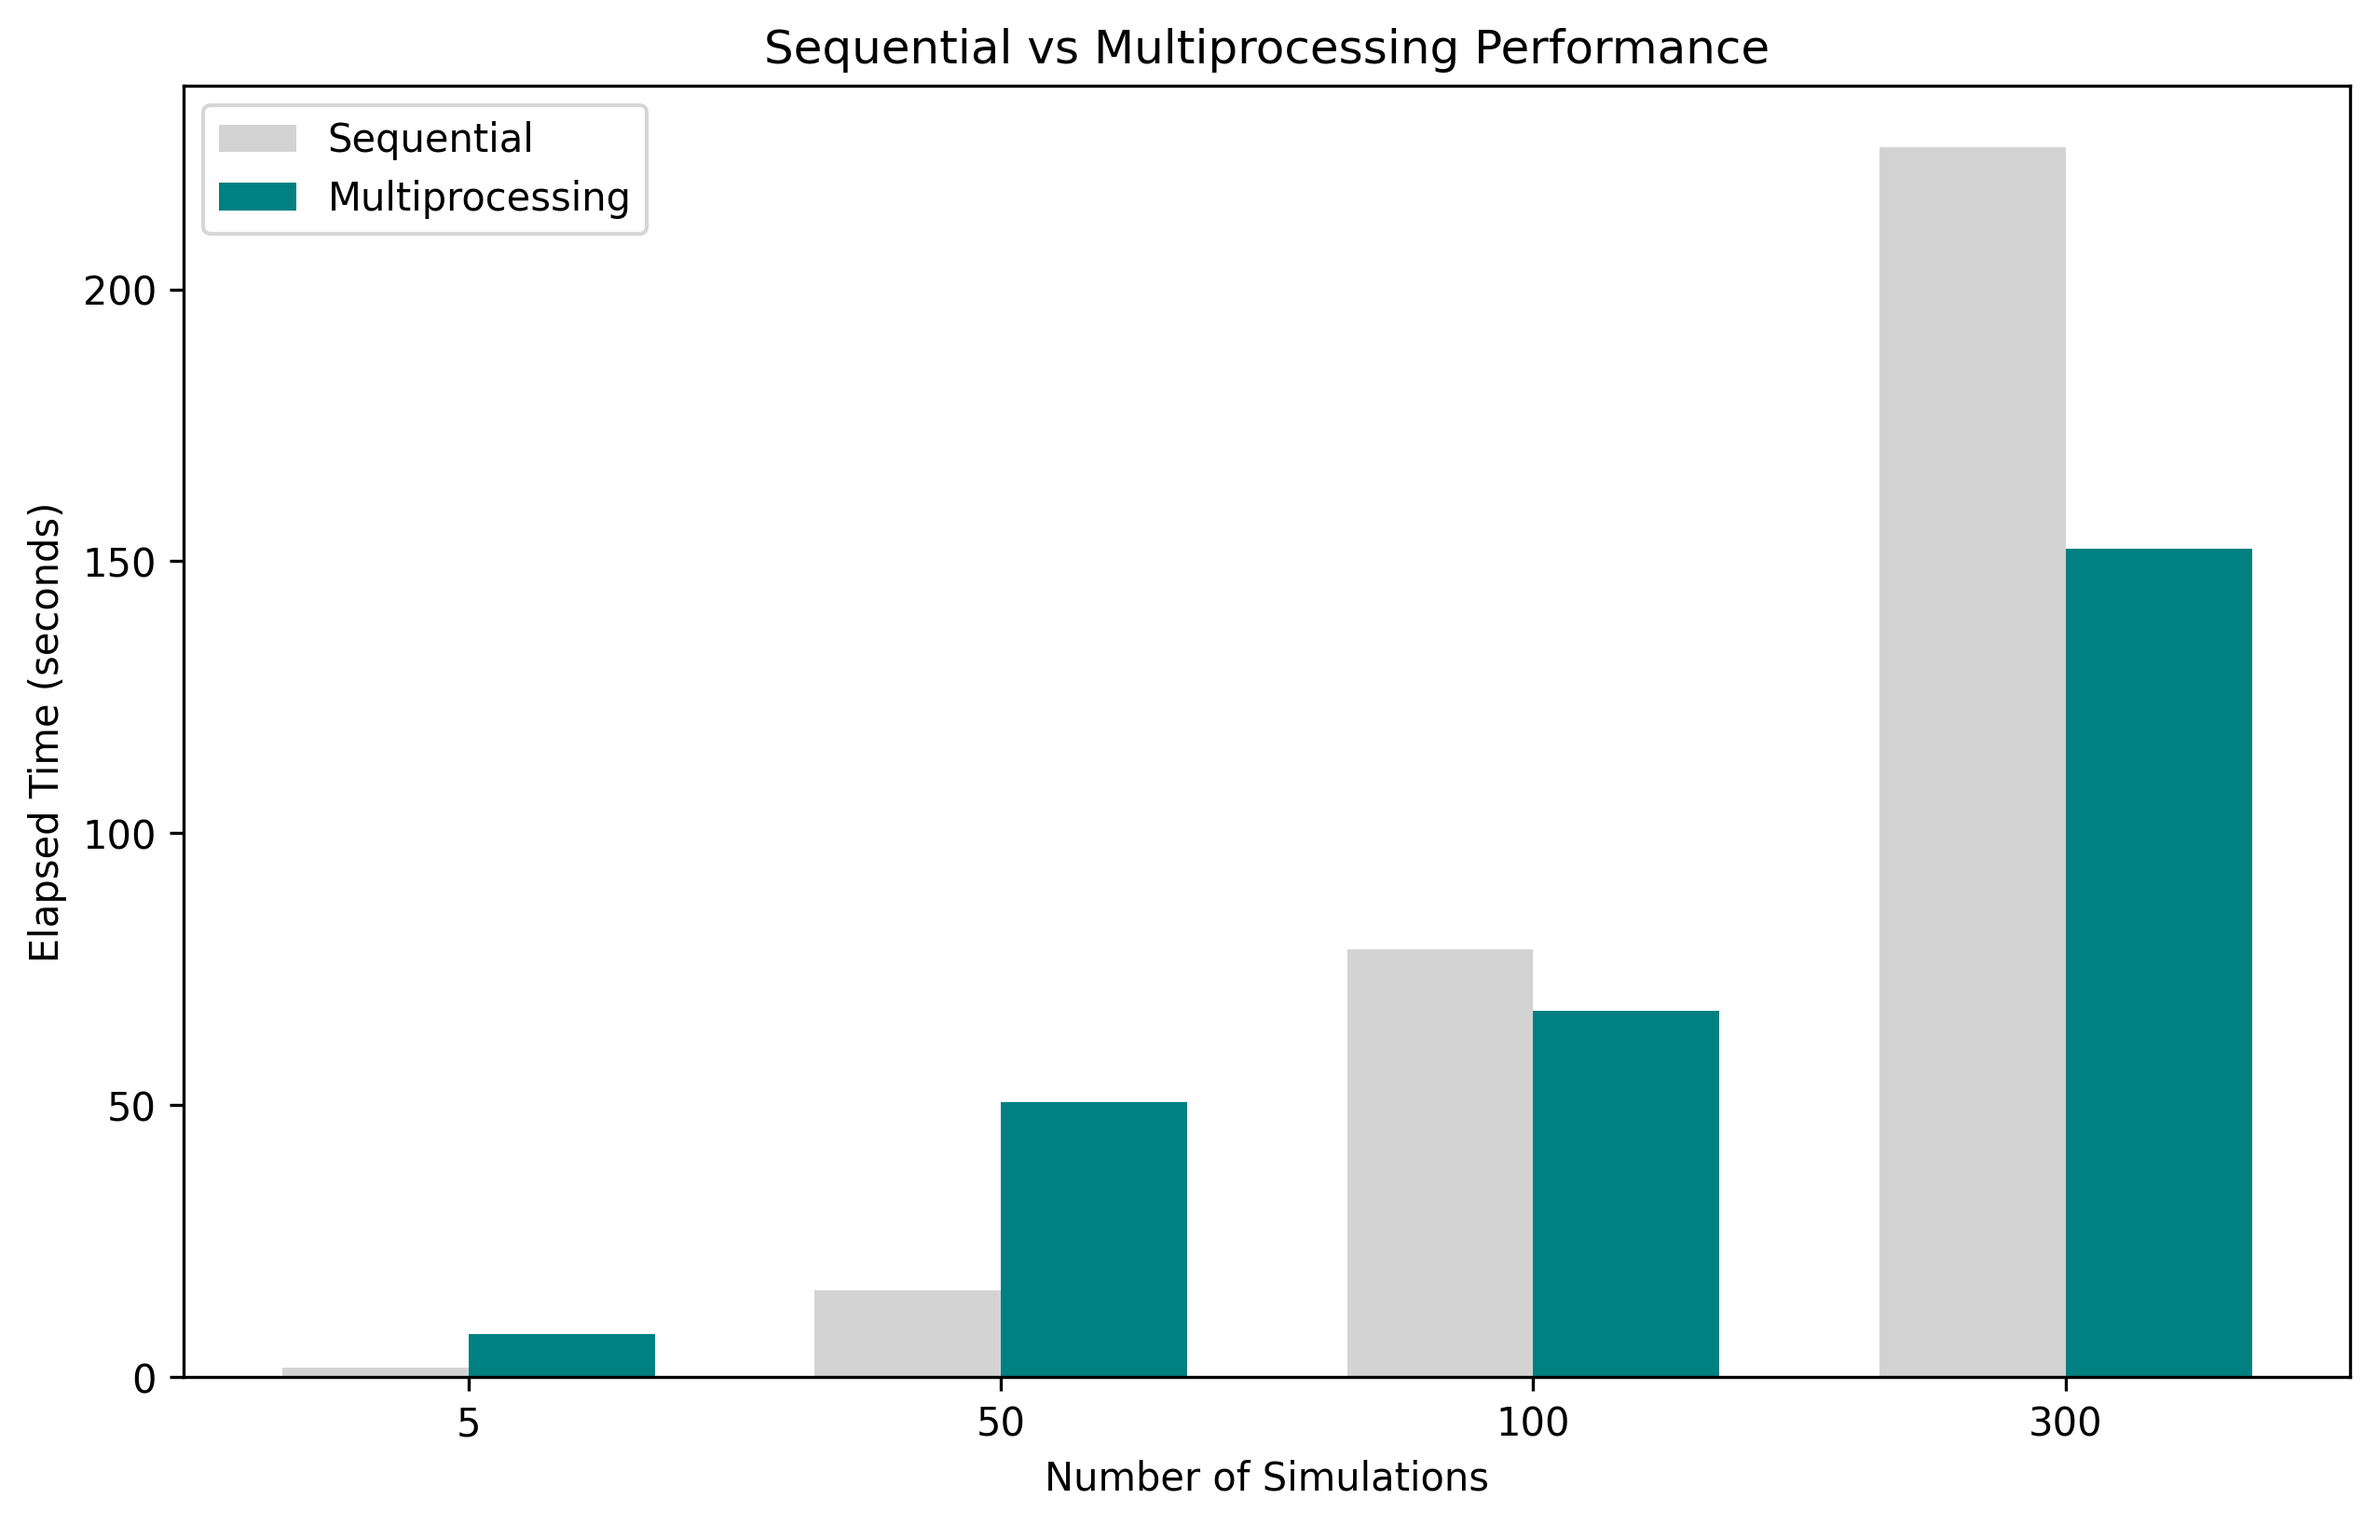
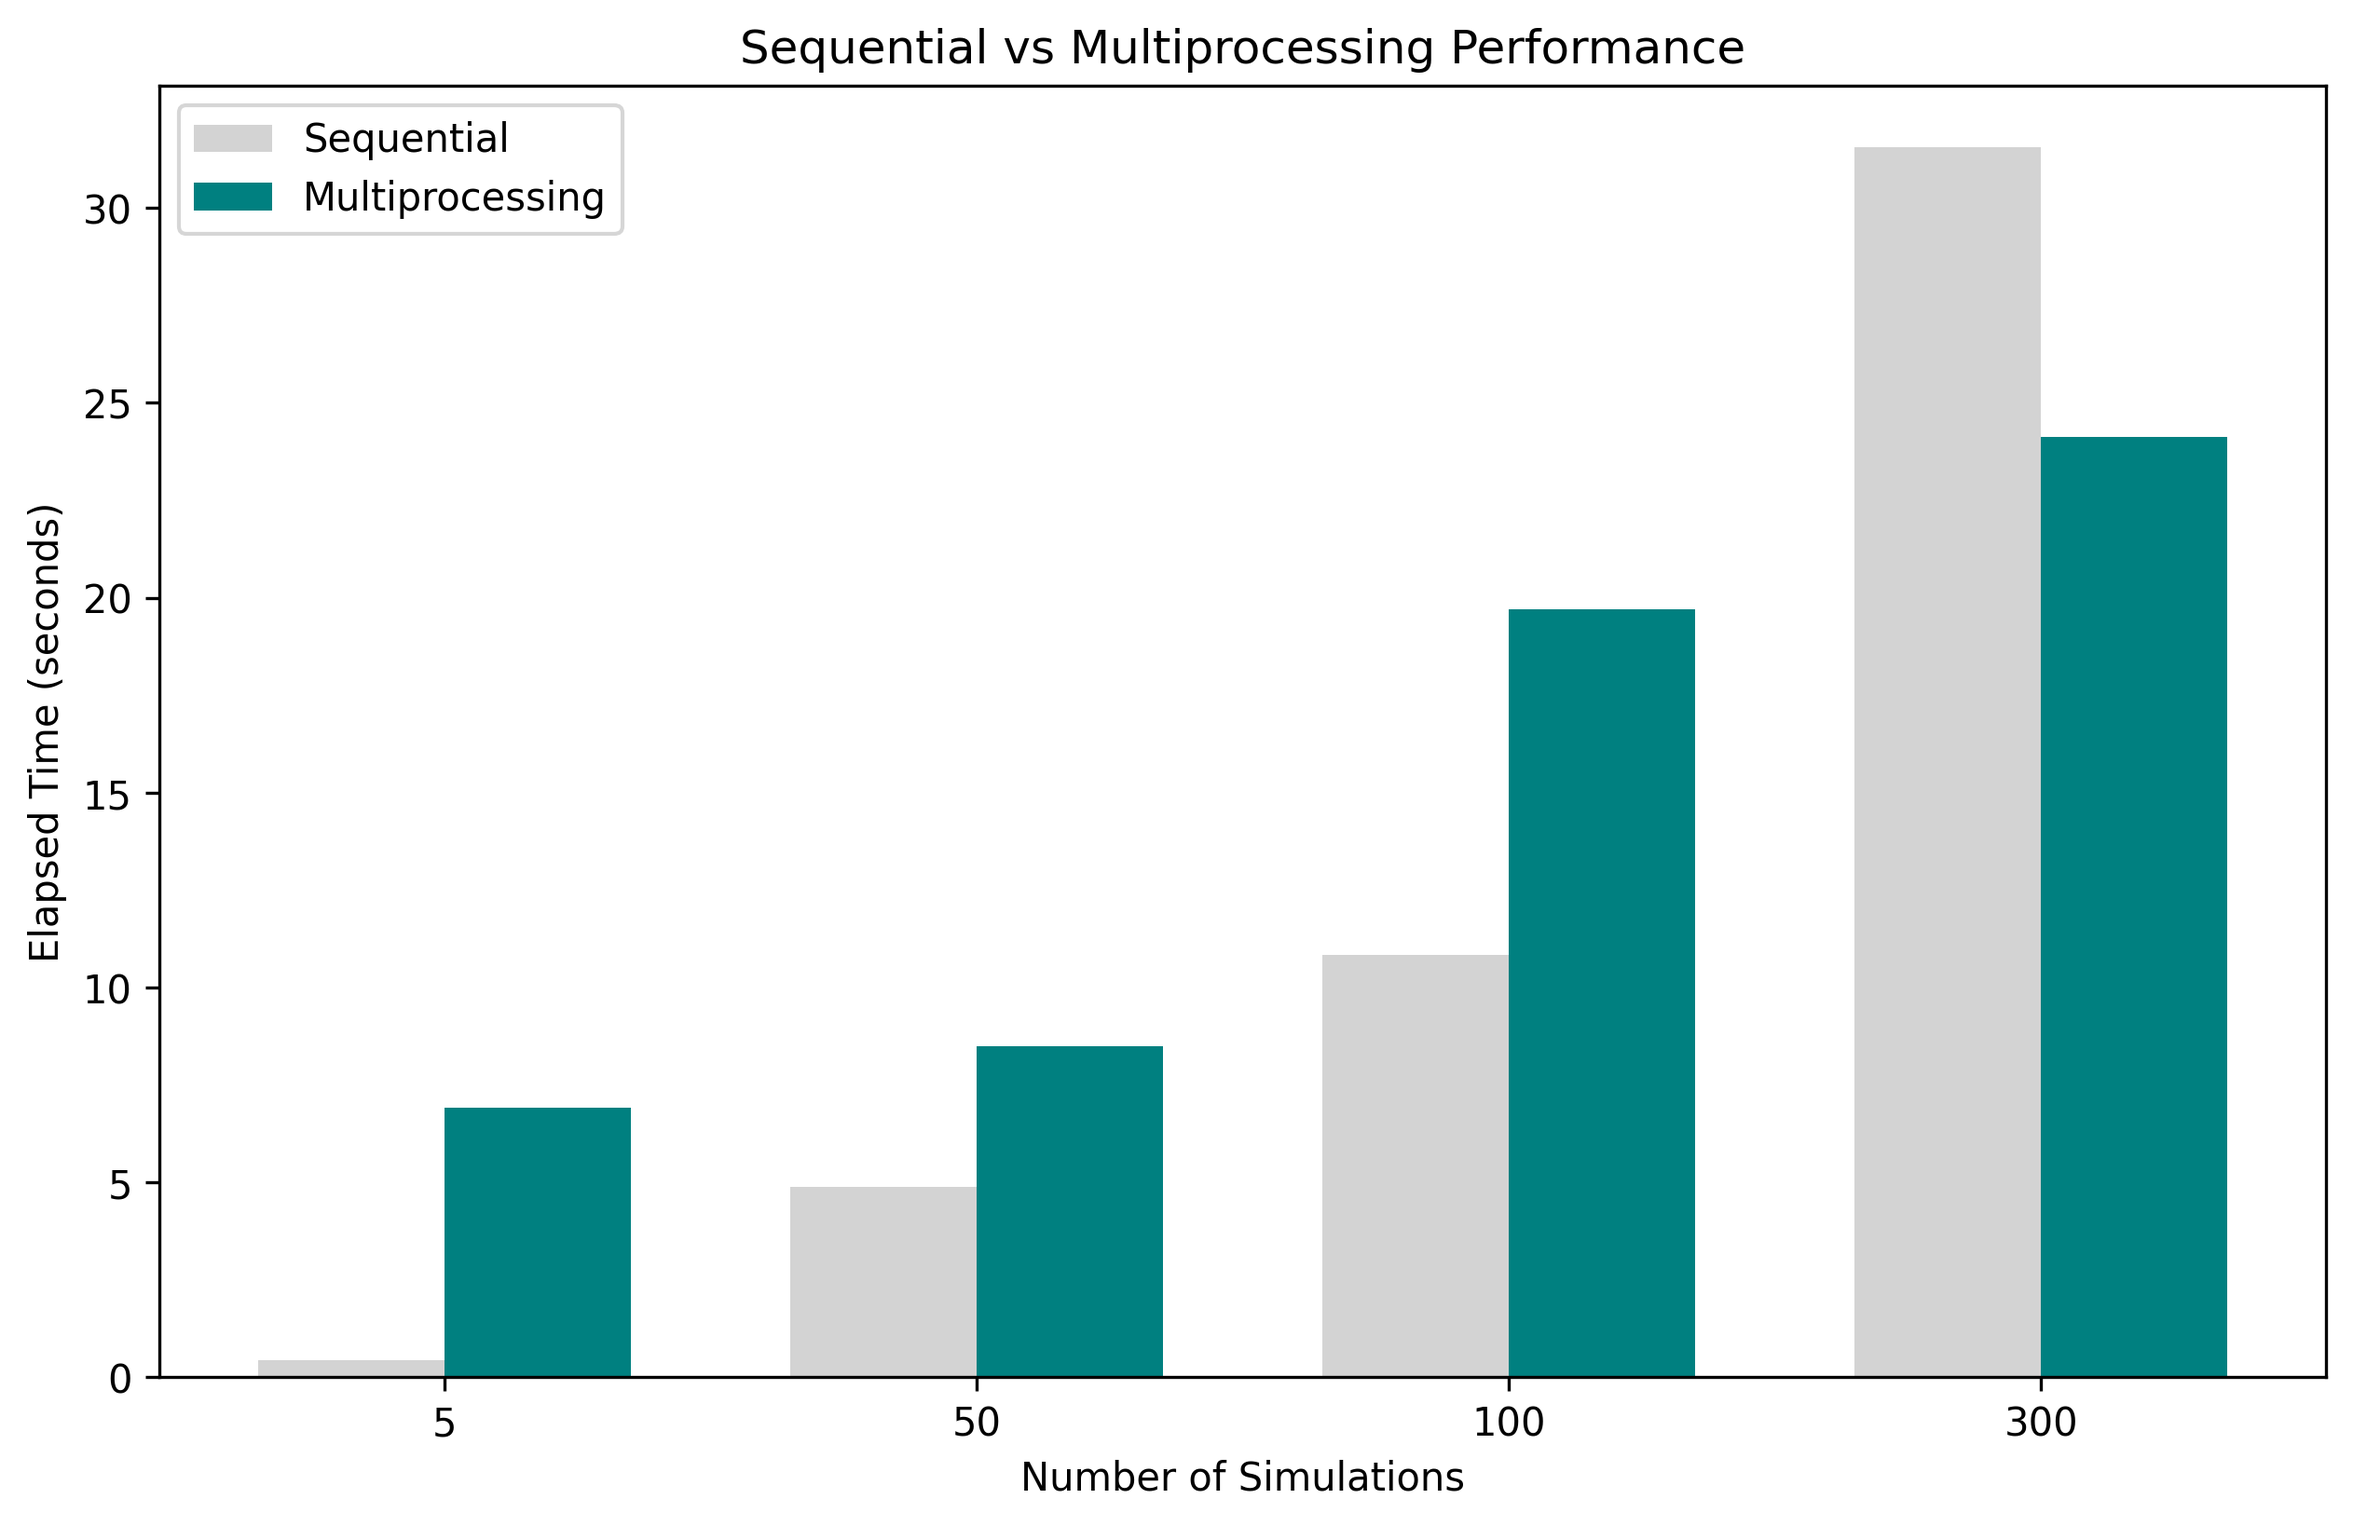
feat: add flag to disable output

diff --git a/src/backtesting_engine/engine.py b/src/backtesting_engine/engine.py
@@ -41,6 +41,7 @@ class BTXEngine:
         self.initial_cash = config.initial_cash
         self.slippage = config.slippage
         self.commission = config.commission
+        self.config = config
 
         self.trade_log: list[TradeLogEntry] = []
 
@@ -58,8 +59,9 @@ class BTXEngine:
         # performance_metrics.pretty_print()
 
         # Generate plots for the backtest results
-        plot_generator = self.plot_generator(df, self.strategy.__class__.__name__, self.context)
-        plot_generator.generate()
+        if self.config.generate_output:
+            plot_generator = self.plot_generator(df, self.strategy.__class__.__name__, self.context)
+            plot_generator.generate()
 
         return df
 

diff --git a/src/backtesting_engine/main.py b/src/backtesting_engine/main.py
@@ -37,7 +37,7 @@ def run_single_sim() -> None:
     }
 
     engine = BTXEngine(
-        config=EngineConfig(initial_cash=100_000.0, slippage=0.01, commission=0.001),
+        config=EngineConfig(initial_cash=100_000.0, slippage=0.01, commission=0.001, generate_output=False),
         context=EngineContext(
             sim_group="local_test",
             sim_id="002",
@@ -59,4 +59,4 @@ def run_multiple_sims() -> None:
 
 
 if __name__ == "__main__":
-    run_multiple_sims()
+    run_single_sim()

diff --git a/scripts/run_multiprocess_performance_tests.py b/scripts/run_multiprocess_performance_tests.py
@@ -63,7 +63,7 @@ def run_single_sim(sim_id: int) -> None:
     data = data_loader.load(ticker=TICKER, start_date=START_DATE, end_date=END_DATE, source="yfinance")
 
     engine = BTXEngine(
-        config=EngineConfig(initial_cash=100_000.0, slippage=0.01, commission=0.001),
+        config=EngineConfig(initial_cash=100_000.0, slippage=0.01, commission=0.001, generate_output=False),
         context=EngineContext(
             sim_group="local_test",
             sim_id=str(sim_id),

diff --git a/src/backtesting_engine/managers.py b/src/backtesting_engine/managers.py
@@ -121,6 +121,7 @@ class QueueManager:
                     initial_cash=sim_item.sim_config.initial_cash,
                     slippage=sim_item.sim_config.slippage,
                     commission=sim_item.sim_config.commission,
+                    generate_output=False,
                 ),
                 context=EngineContext(
                     sim_group=self.queue_config.sim_group,

diff --git a/src/backtesting_engine/interfaces.py b/src/backtesting_engine/interfaces.py
@@ -16,6 +16,7 @@ class EngineConfig:
     slippage: float = 0.0
     commission: float = 0.0
     initial_cash: float = 100_000.0  # Default initial cash for backtesting
+    generate_output: bool = True  # Whether to generate output files
 
 
 @dataclass
